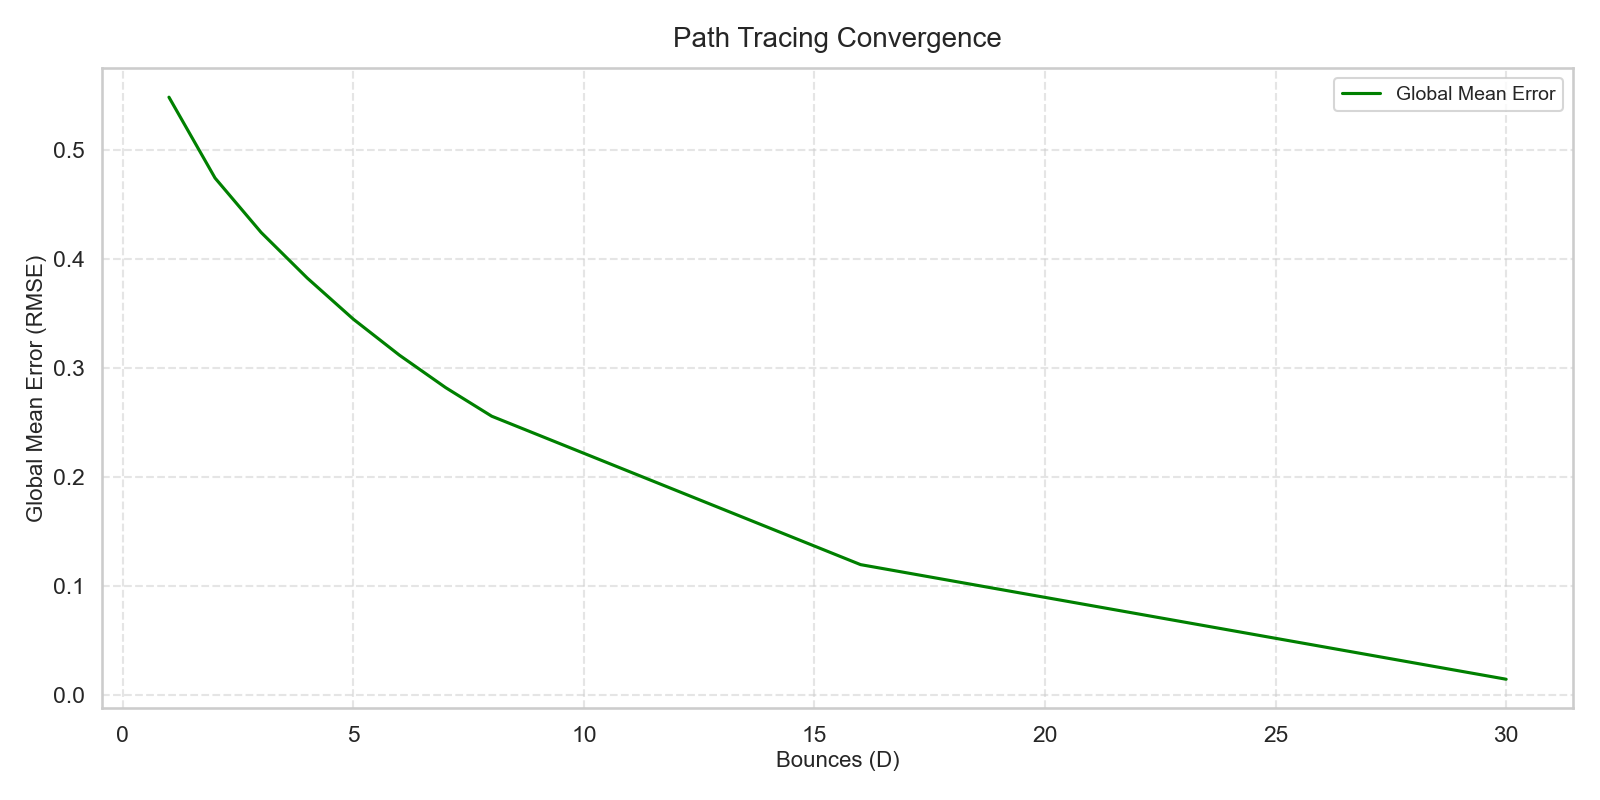
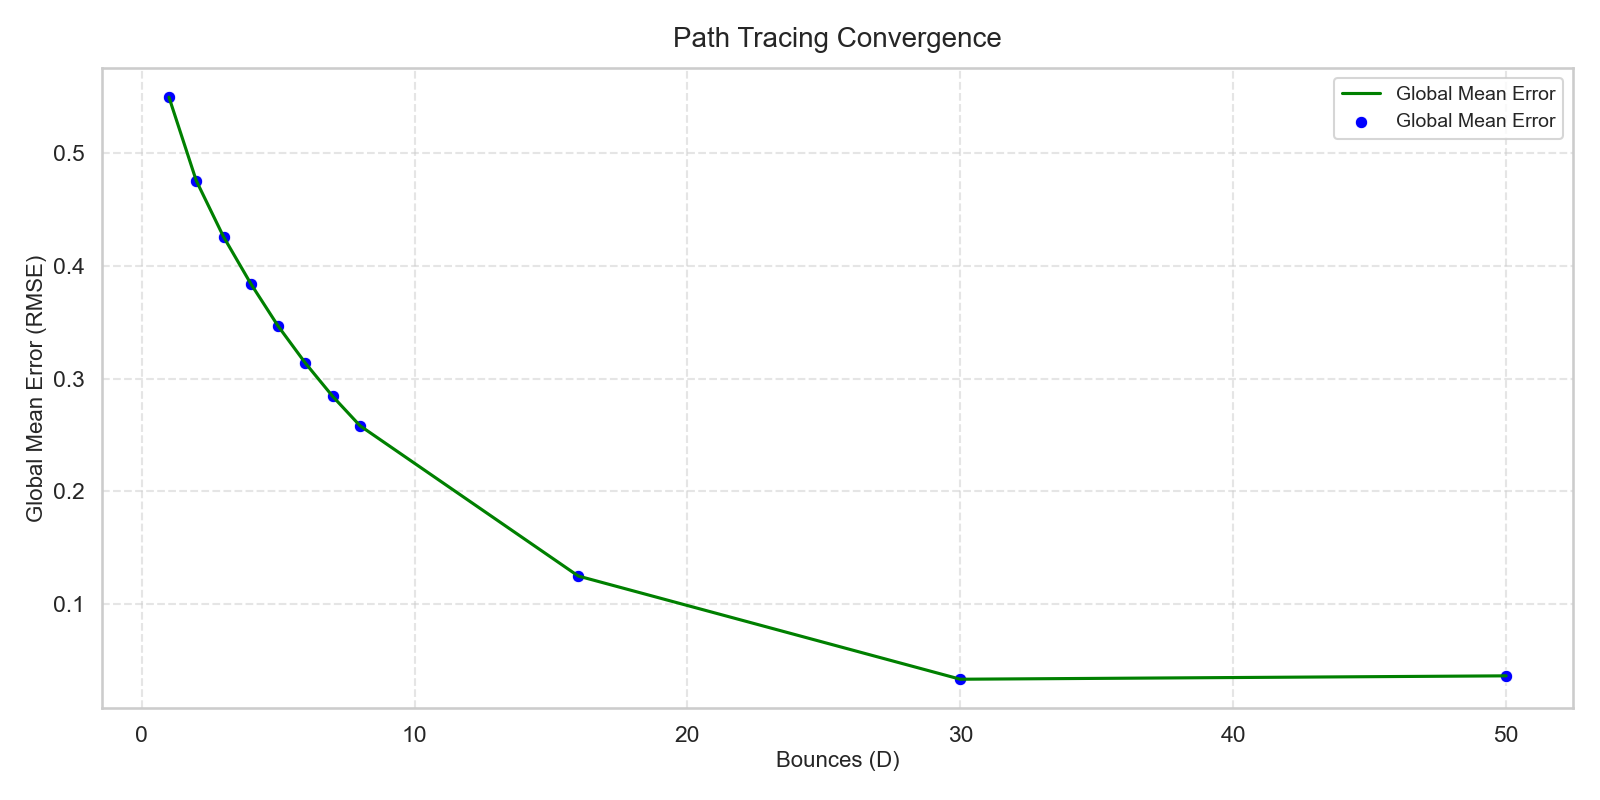
Amélioraton du graphe de convergence des rebonds

diff --git a/performance/bounce_evolution/scripts/convergence.py b/performance/bounce_evolution/scripts/convergence.py
@@ -8,7 +8,9 @@ import matplotlib.pyplot as plt
 
 
 sns.set_theme(style="whitegrid", context="talk")
-N = 10
+
+index_images = [1, 2, 3, 4 ,5 , 6, 7, 8, 16, 30, 50]
+N = len(index_images)
 
 def load_image(path):
 	img = Image.open(path).convert("RGB")
@@ -28,30 +30,28 @@ def compare_images(image_path, reference_path):
 
 	
 arr_error = []
-sampling = []
-reference_path = "images/50 rebonds.ppm"
+reference_path = "images/1000 rebonds.ppm"
 
-for samples in (1, 2, 3, 4 ,5 , 6, 7, 8, 16, 30):
+for samples in index_images:
     path = f"images/{samples} rebonds.ppm"
 
     error = compare_images(path, reference_path)
-    sampling.append(samples)
     arr_error.append(error)
 
 arr_error = np.array(arr_error)
-sampling = np.array(sampling)
 
 data = pd.DataFrame(columns=["N", "Global Mean Error"])
 data["Global Mean Error"] = arr_error
-data["N"] = sampling
+data["N"] = np.array(index_images)
 
 reference = pd.DataFrame(columns=["N", "1/N^(1/2)"])
-reference["N"] = sampling
+reference["N"] = np.array(index_images)
 #reference["1/N^(1/2)"] = 1/np.sqrt(1*sampling)
 
 fig, ax = plt.subplots(figsize=(16, 8))
 
 sns.lineplot(x="N", y="Global Mean Error",label="Global Mean Error", data=data, color='green')
+sns.scatterplot(x="N", y="Global Mean Error",label="Global Mean Error", data=data, color='blue')
 #sns.lineplot(x="N", y="1/N^(1/2)",label="1/N^(1/2)", data=reference, color='blue')
 
 
